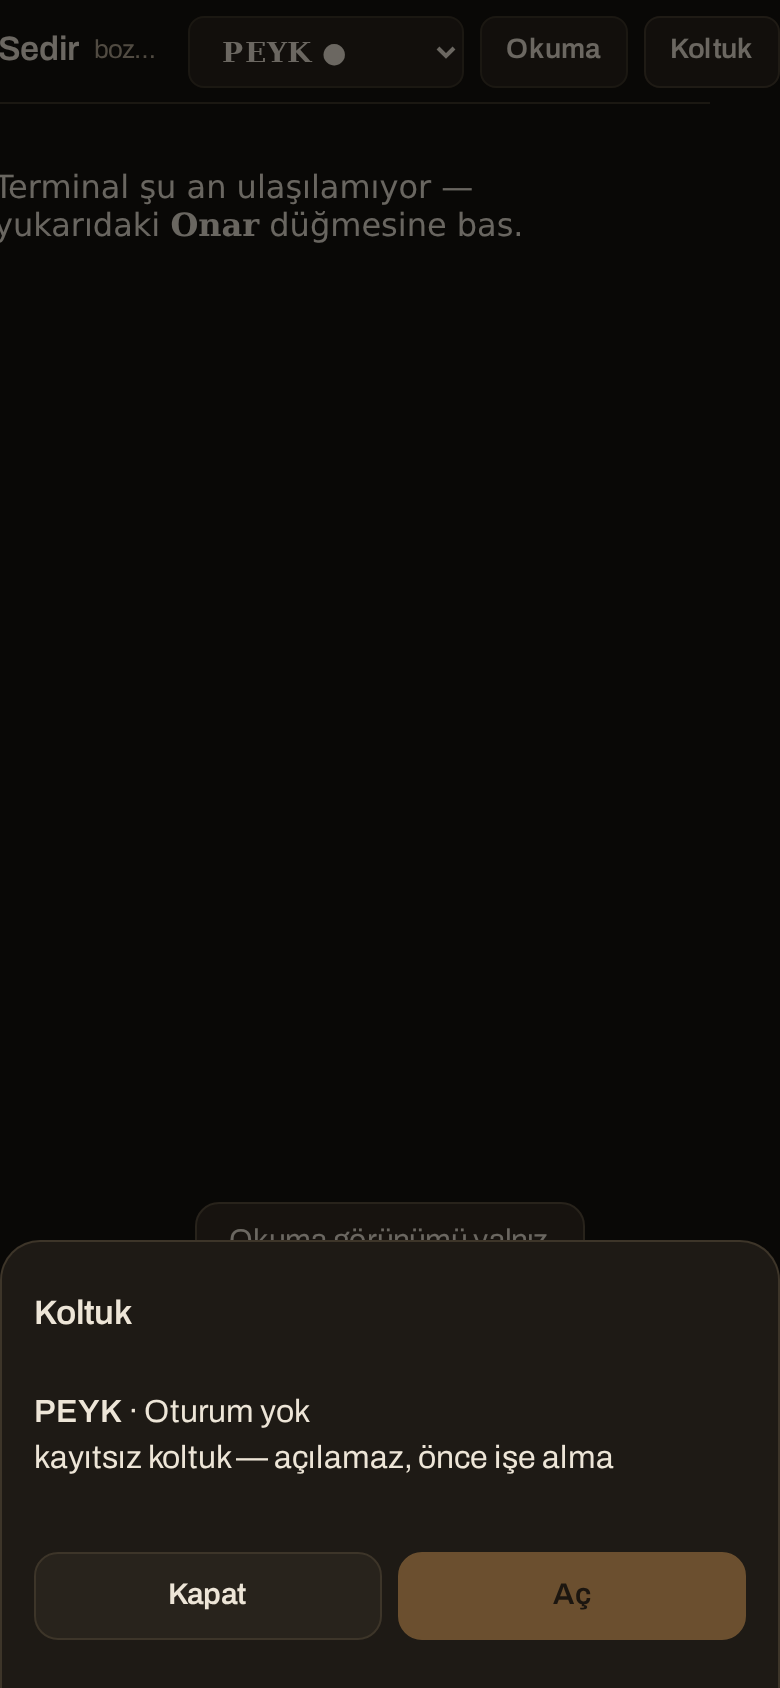
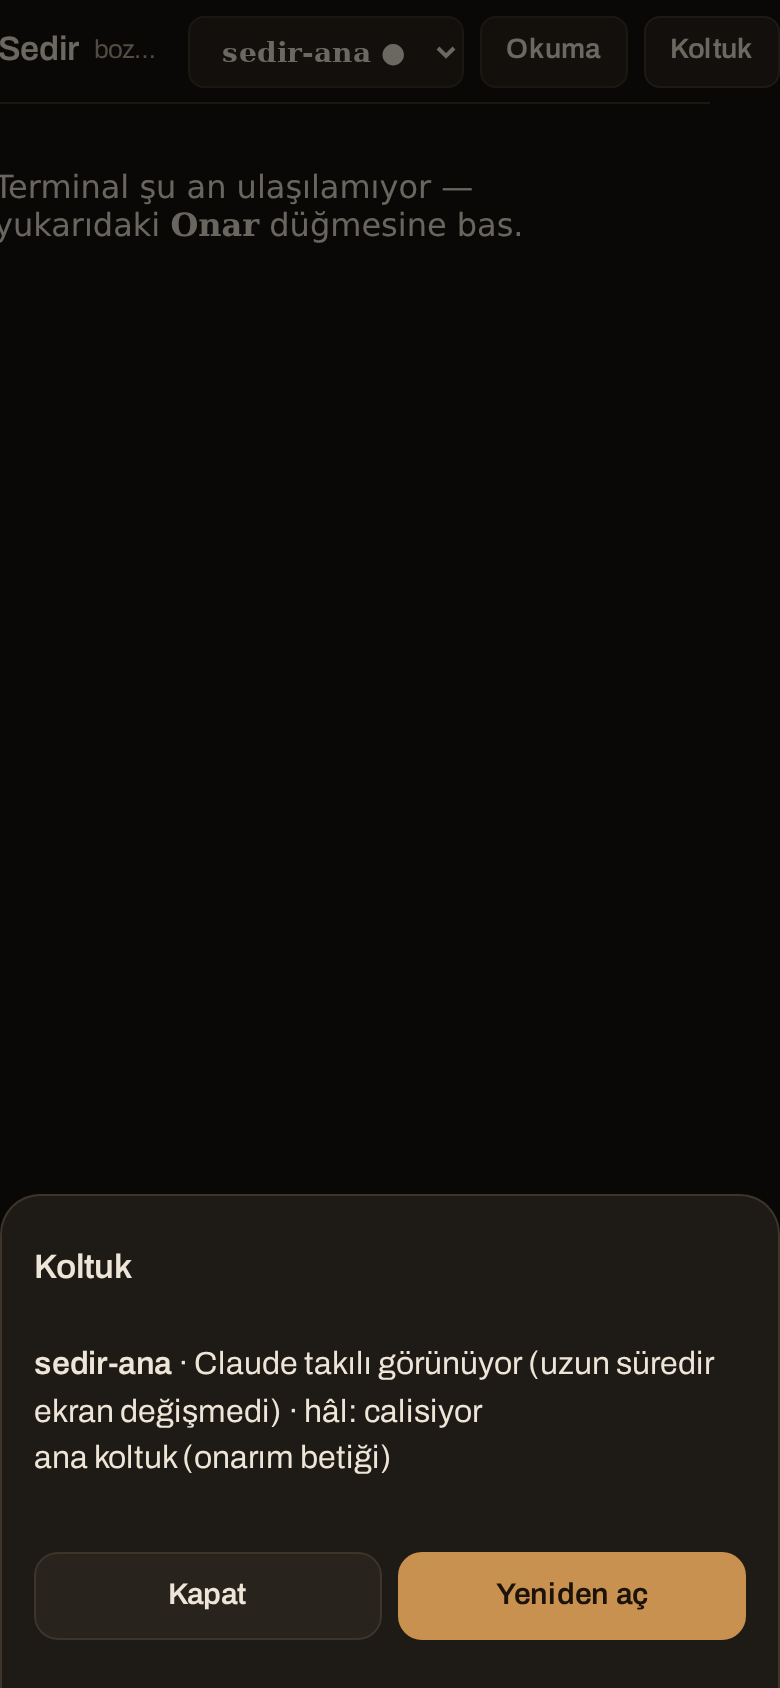
fix: koltuk aç — takılı yalnız görünüş (zorlasız kapatmaz, pencere sorar) · açma 120 sn + 504 · liste betiği kendi dizininden · takılı/ana-yol/zaman-aşımı sınavları · canlı kanıt yeniden koşturulabilir — yedek göz tur 2

diff --git a/terminal-onar/kapi/genel/uygulama.js b/terminal-onar/kapi/genel/uygulama.js
@@ -344,9 +344,12 @@ async function koltukOlc() {
 }
 async function koltukAcGonder(eski) {
   const ad = koltukHedef(); if (!ad) return;
+  // takılı GÖRÜNEN koltuk çalışıyor olabilir (uzun araç): kapatmak işi keser → önce sor, sonra zorla
+  let zorla = false;
+  if (koltukSon && koltukSon.durum === 'takili') { if (!confirm(ad + ' takılı görünüyor ama çalışıyor olabilir. Oturum KAPATILIP yeniden açılsın mı? (süren iş kesilir)')) return; zorla = true; }
   $('koltukBasla').disabled = true; $('koltukEski').disabled = true; $('koltukDurum').textContent = (eski ? 'Eski sohbete dönülüyor' : 'Açılıyor') + '…';
-  try { const j = await api(Y('/api/koltuk/' + encodeURIComponent(ad) + '/ac'), { eski: !!eski }); bildir(j.mesaj || 'Açıldı.'); }
-  catch (h) { bildir(h.message); }
+  try { const j = await api(Y('/api/koltuk/' + encodeURIComponent(ad) + '/ac'), { eski: !!eski, zorla }); bildir(j.mesaj || 'Açıldı.'); }
+  catch (h) { bildir(h.message); }   // 504: 'arkada doğmuş olabilir' — aşağıdaki yenileme gerçek durumu gösterir
   finally { $('koltukEski').disabled = false; setTimeout(() => { koltukOlc(); koltuklariYukle(); if (gorunumTerminal) { ttySok(); ttyKur(); } }, 1500); }
 }
 $('koltukAc')?.addEventListener('click', () => { $('koltukP').showModal(); koltukOlc(); });

diff --git a/terminal-onar/SKILL.md b/terminal-onar/SKILL.md
@@ -131,7 +131,8 @@ kapı yalnız taşır: `GET /api/koltuk/<ad>` · `POST /api/koltuk/<ad>/ac {eski
   koltuk AÇILMAZ**, sebebi söylenir: kimliksiz Claude başka kimliğe düşer (ölçülmüş vaka); önce işe alma (madde 6).
 - **Ölçüldü (13 Eki):** `ekip-ac.sh` 18 kutunun 3'ünde var (Nexus · huma · mihenk), aile kaydı 8'inde → öteki kutularda yalnız ana
   koltuk açılır, gerisi dürüstçe "kayıtsız" döner. `takili` = Claude var ∧ ekran `TO_TAKILI_SN` (900 s) süredir değişmemiş ∧ soru/girdi
-  beklemiyor. (2.4.0: `koltuk-bagla.sh --liste` son-etkinlik alanı hep 0 basıyordu — `display-message -t =ad` bölme hedefi boş döner; `ad:` ile düzeltildi, 2.2.1 hâl düzeltmesinin ikizi.)
+  beklemiyor. 🔴 **Takılı = görünüş:** uzun araç koşan sağlam bir Claude da öyle görünür (canlıda ölçüldü: BÂNİ'nin kendi koltuğu) → `ac`
+  takılı oturumu zorlasız KAPATMAZ (rc 5 / kapı 428); telefon penceresi önce sorar, onayla `--zorla` gider. (2.4.0: `koltuk-bagla.sh --liste` son-etkinlik alanı hep 0 basıyordu — `display-message -t =ad` bölme hedefi boş döner; `ad:` ile düzeltildi, 2.2.1 hâl düzeltmesinin ikizi.)
 - Sınav: `scripts/koltuk-ac.test.sh` (gerçek tmux, sahte ekip-ac: öldür→geri gel · eski sohbet · ikinci kopya yok · kayıtsız ret) ·
   `sunucu.test.mjs` KA0-KA10 · `kapi/tarayici-sinav.mjs` KD1-KD5 · mutasyon M20-M22.
 
